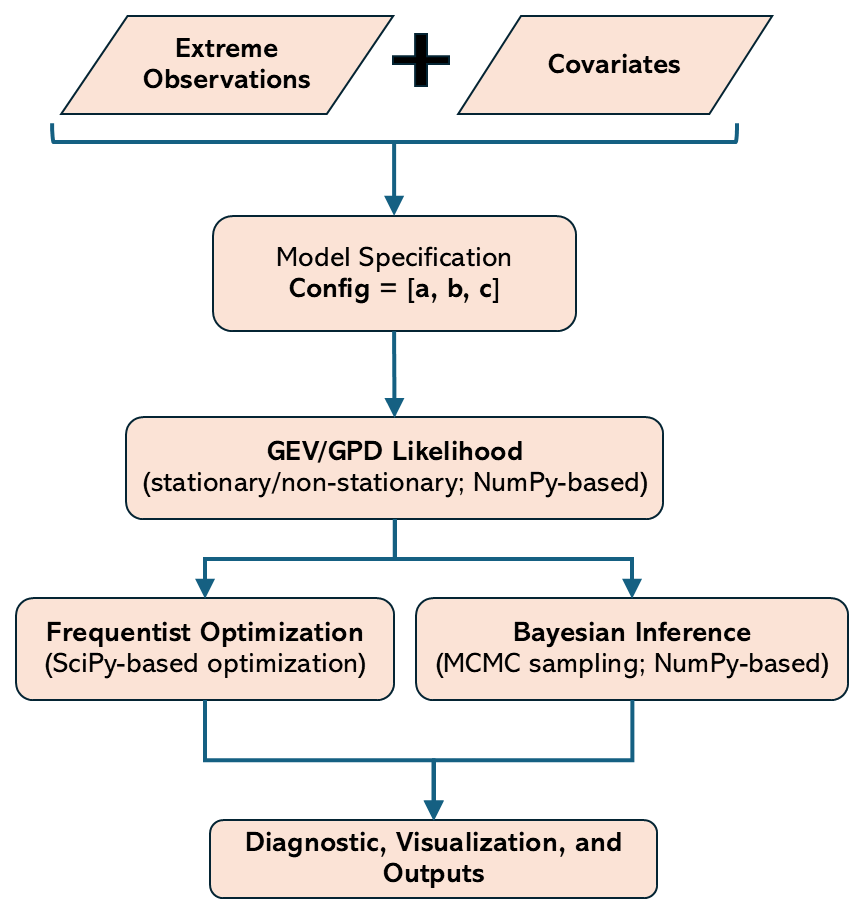
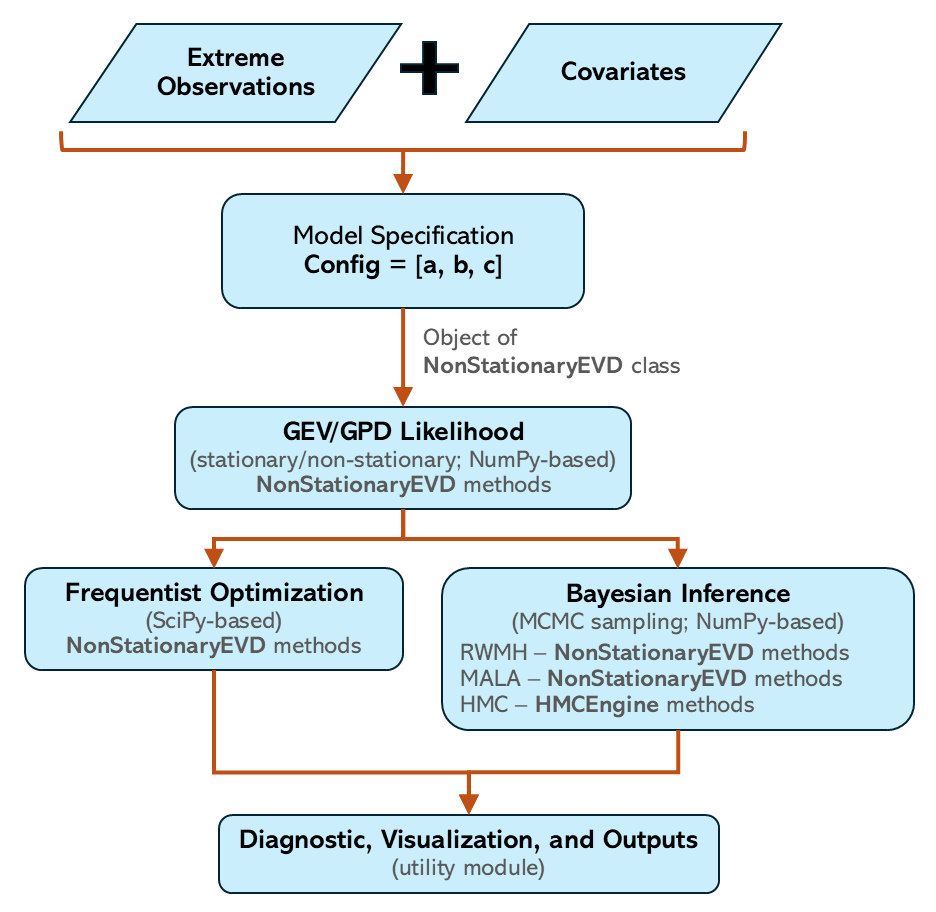
paper.md changed figure1

diff --git a/Paper/paper.md b/Paper/paper.md
@@ -49,27 +49,28 @@ These differences motivate a dedicated Python tool that combines flexibility wit
 
 
 # Software Design
-`nsEVDx` is designed to provide a transparent and researcher-focused framework for fitting stationary and non-stationary extreme value distributions while minimizing the programming burden typically associated with custom Bayesian implementations (Figure 1).
+`nsEVDx` is designed to provide a transparent and researcher-focused framework for fitting stationary and non-stationary extreme value distributions while minimizing the programming burden typically associated with custom Bayesian implementations. The overall workflow implemented in `nsEVDx` is shown in Figure 1.
 
-![Figure 1: Workflow implemented in `nsEVDx`. Extreme-value observations and covariates are translated into stationary or non-stationary GEV/GPD models through the configuration vector `config=[a,b,c]`. Models can be fit using either frequentist optimization or Bayesian MCMC sampling. Diagnostic metrics and visualizations are generated within the same workflow.](Fig1.png)
+![Workflow implemented in `nsEVDx` for specifying, fitting, and diagnosing stationary and non-stationary GEV and GPD models using frequentist optimization or Bayesian MCMC sampling](Fig1.png)
 
 The concepts of non-stationarity and MCMC techniques used in `nsEVDx` are based on the foundational texts by @christian_p_robert_introducing_2009 and @coles_introduction_2007. The core class `NonStationaryEVD` handles parameter parsing and specification, log-likelihood evaluation, prior assignment, optimization, and MCMC sampling. This unified design allows users to switch between frequentist and Bayesian workflows without redefining model structures. Frequentist methods uses `scipy.optimize` to minimize the non-stationary negative log-likelihood, while the Bayesian MCMC methods are implemented in numpy, allowing full transparency and customization. In Bayesian estimation, `nsEVDx` can infer prior specifications based on the data and configuration or accept user-defined priors. In the frequentist mode, it can determine suitable parameter bounds automatically. However, user-defined priors or bounds are recommended for better convergence and interpretability. The implementation of L-moments in some utility methods follows the approach described by @j_r_m_hosking_regional_1997. Currently, `nsEVDx` supports linear modeling for the location and shape parameters, and exponential (log-linear) modeling for the scale parameter, to ensure positivity.
 
 `nsEVDx` controls non-stationarity via a configuration vector `config = [a, b, c]`, where each entry specifies the number of covariates used to model the location, scale, and shape parameters of the EVD. Entry with a value of `0` implies stationarity (i.e., no covariate dependence), while integer values `> 0` indicate non-stationary modeling using the corresponding number of covariates for the parameter. This representation provides a compact and scalable mechanism for defining a wide range of stationary and non-stationary models while maintaining a consistent user interface (Figure 2). 
 
-![Figure 2. Configuration-vector framework used in `nsEVDx` for specifying stationary and non-stationary EVD models.](Fig2.png)
+![Configuration-vector framework used in `nsEVDx` for specifying stationary and non-stationary EVD models.](Fig2.png)
 
 Currently, location and shape parameters can be modeled using linear relationships, while the scale parameter is modeled using an exponential link function to ensure positivity. Polynomial relationships can be accommodated by transforming covariates before model fitting. Future releases aim to incorporate spline-based and mixed-population formulations.
 
-Another key design decision is the implementation of Bayesian samplers directly in `NumPy` rather than relying exclusively on external probabilistic programming frameworks. This approach maximizes transparency, enables users to inspect and modify algorithmic details, and reduces dependencies. The package currently provides Random-Walk Metropolis-Hastings, Metropolis-Adjusted Langevin Algorithm (MALA), and Hamiltonian Monte Carlo (HMC) samplers, allowing users to balance computational efficiency and inferential robustness according to their application. 
+Another key design decision is the implementation of Bayesian samplers directly in `NumPy`. This approach maximizes transparency, enables users to inspect and modify algorithmic details, and reduces dependencies. The package currently provides Random-Walk Metropolis-Hastings (RWMH), Metropolis-Adjusted Langevin Algorithm (MALA), and Hamiltonian Monte Carlo (HMC) samplers, allowing users to balance computational efficiency and inferential robustness according to their application. While RWMH and MALA are integrated within the `NonStationaryEVD` class, HMC is implemented through a dedicated `HMCEngine` component that handles the gradient computations required for Hamiltonian dynamics.
 
 To support model evaluation and reproducibility, `nsEVDx` includes diagnostic tools for trace plots, posterior summaries, acceptance rates, and Gelman-Rubin ($\hat{R}$) convergence metrics. It also provides model selection options, including DIC, AIC, BIC, and likelihood-ratio tests, enabling complete workflows within a single environment.
 
-The package is intentionally lightweight, relying primarily on NumPy and SciPy for computation and Matplotlib and Seaborn for visualization. This minimal dependency footprint improves portability and simplifies installation while preserving extensibility for future methodological developments.
+The package is intentionally lightweight, relying primarily on `NumPy` and `SciPy` for computation and `Matplotlib` and `Seaborn` for visualization. This minimal dependency footprint improves portability and simplifies installation while preserving extensibility for future methodological developments.
 
 
 # Research Impact Statement
-`nsEVDx` has been developed to improve accessibility of advanced extreme value modeling methods for researchers working in Python environments. The software lowers the barrier to applying advanced Bayesian methods, including MALA and HMC sampling, which are often inaccessible to domain scientists due to the complexity of general-purpose probabilistic programming frameworks.
+
+`nsEVDx` has been developed to improve accessibility of advanced extreme value modeling methods for researchers working in Python environments. The software lowers the barrier to applying advanced Bayesian methods, including MALA and HMC sampling, by providing predefined extreme value models and inference workflows that accommodate users with different levels of statistical and programming expertise.
 
 The package has already been applied in ongoing hydroclimatic research focused on trend detection and characterization of extreme precipitation[@kafle2026raingauge;@kafle2025detecting], and supports broader applications in climate science, water resources engineering, infrastructure design, and financial risk assessment. Since its public release, nsEVDx has received more than 3,200 downloads during its first year, providing evidence of early adoption by the research community.
 
@@ -85,6 +86,6 @@ AI tools were used during the programming and development of this library, as we
 
 # Acknowledgements
 
-I gratefully acknowledge the support and encouragement of my wife, Koshika Timsina, whose constant belief in me has been a source of strength throughout this project. I also extend my heartfelt thanks to my family for their unwavering love, patience, and support.
+I gratefully acknowledge the support and encouragement of my wife, Koshika Timsina, whose constant belief in me has been a source of strength throughout this project. I also extend my heartfelt thanks to my family for their unwavering love, patience, and support. I also thank Vincent Gao for contributing to nsEVDx by identifying and fixing a software bug.
 
 # References
